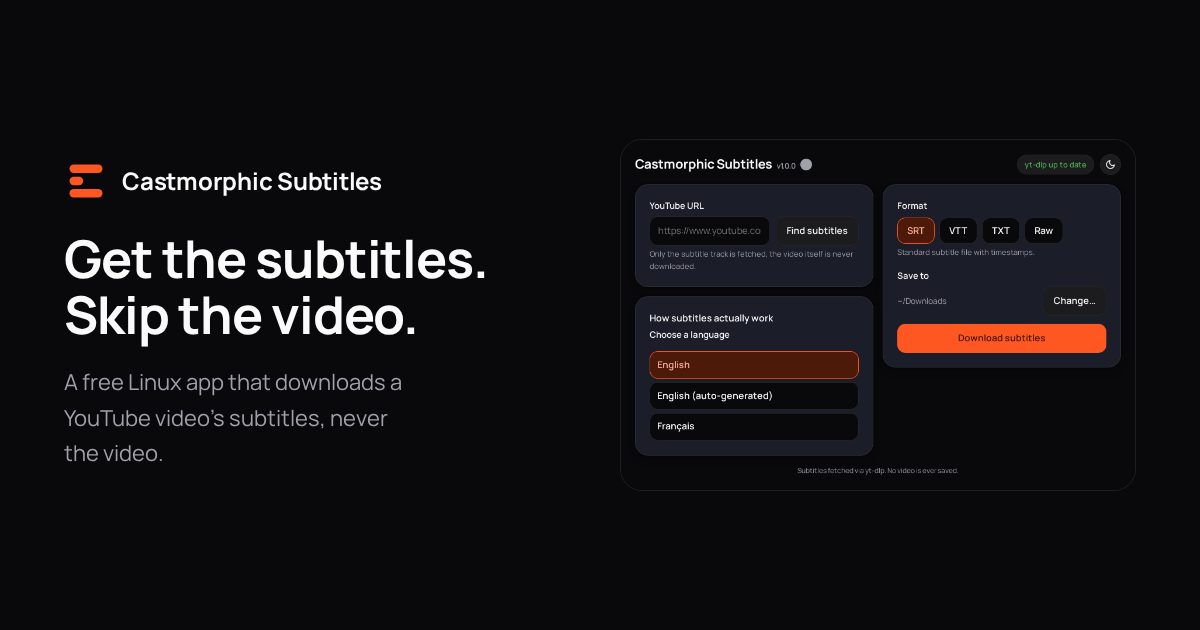
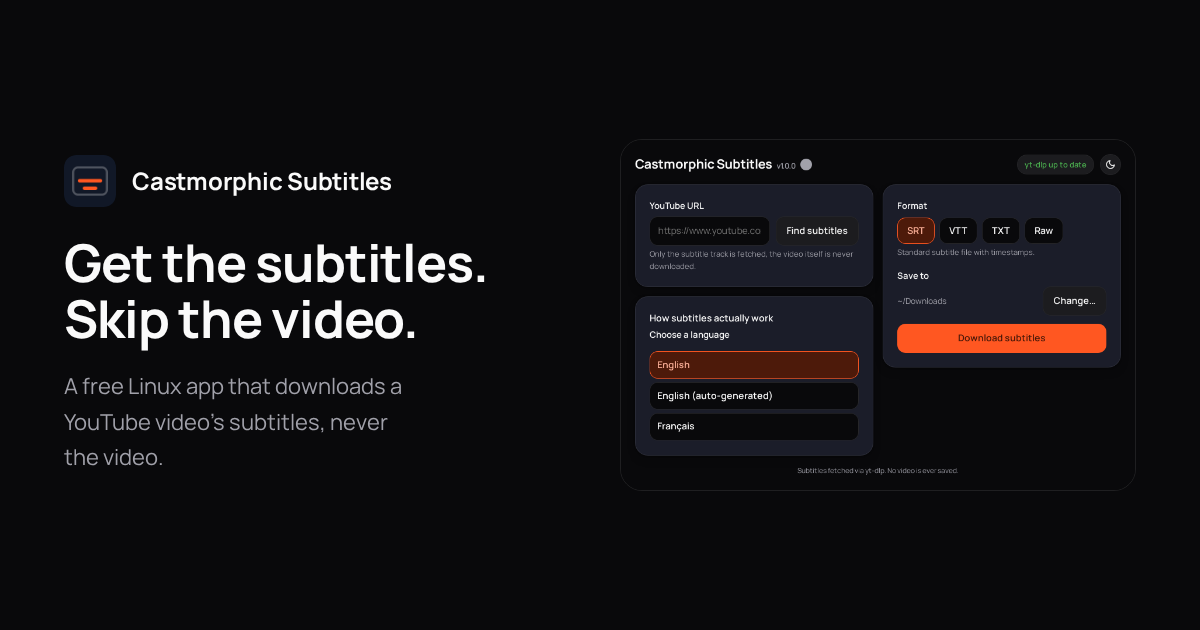
Give Castmorphic Subtitles its own mark, and drop GitHub from the page
The icon was Castmorphic's own three-bar mark recoloured, so the app had
no identity of its own. It is now an empty screen with two caption lines
in it: the frame holds no picture, which is the whole point of the app.
Same navy and same orange, so it still reads as part of the family. The
app icon, the favicon and the share image all come from the one SVG.

GitHub now appears once, as "Source on GitHub" on the last line of the
footer. Gone from the top menu, from the second hero button, from the
requirements box and from the footer menu. The download buttons still
point at the release asset, but they read as "Download for Linux" and
nothing on the page says where the file lives.

The download link was already a direct one: /releases/latest/download/
hands back the file itself and always tracks the newest release, rather
than opening a page. It returns 404 today only because v1.0.0 has not
been published yet.

Changed region(s): [[0.0308, 0.3619, 0.4008, 0.5429], [0.0308, 0.6032, 0.3392, 0.754], [0.0308, 0.2413, 0.3392, 0.3317]]

diff --git a/docs/index.html b/docs/index.html
@@ -103,7 +103,6 @@
     <a href="#features" class="nav-label">Features</a>
     <a href="#formats" class="nav-label">Formats</a>
     <a href="#faq" class="nav-label">FAQ</a>
-    <a href="https://github.com/lightmorphic/castmorphic-subtitles" class="nav-label">GitHub</a>
     <a href="#download" class="nav-cta">Download</a>
   </div>
 </nav>
@@ -122,7 +121,6 @@
         </p>
         <div class="cta-row">
           <a class="btn primary" href="https://github.com/lightmorphic/castmorphic-subtitles/releases/latest/download/castmorphic-subtitles-x86_64.AppImage">Download for Linux</a>
-          <a class="btn secondary" href="https://github.com/lightmorphic/castmorphic-subtitles">View on GitHub</a>
         </div>
       </div>
       <div class="hero-shot">
@@ -230,8 +228,7 @@
         Self-contained: the window, the browser engine and the Python
         packages all ship inside the AppImage. Needs only
         <code>python3</code> (3.10+), which every current Linux desktop
-        already has. Full details and source on the
-        <a href="https://github.com/lightmorphic/castmorphic-subtitles">GitHub repo</a>.
+        already has.
       </div>
     </div>
   </section>
@@ -245,10 +242,10 @@
     <a href="#formats">Formats</a>
     <a href="#faq">FAQ</a>
     <a href="#download">Download</a>
-    <a href="https://github.com/lightmorphic/castmorphic-subtitles">Source on GitHub</a>
   </nav>
   <p>Free software · Version 1.0.0 · Page updated <time datetime="2026-08-30">30 August 2026</time></p>
   <p class="family">Part of <a href="https://castmorphic.com">Castmorphic</a>, hosted podcasting from Lightmorphic.</p>
+  <p class="source"><a href="https://github.com/lightmorphic/castmorphic-subtitles">Source on GitHub</a></p>
 </footer>
 
 </body>

diff --git a/docs/style.css b/docs/style.css
@@ -355,3 +355,6 @@ footer .family {
 }
 .footer-nav a { text-decoration: none; }
 .footer-nav a:hover { color: var(--fg); }
+
+/* The one place the source is mentioned, kept quiet at the very bottom. */
+footer .source { margin-top: 0.35rem; }
